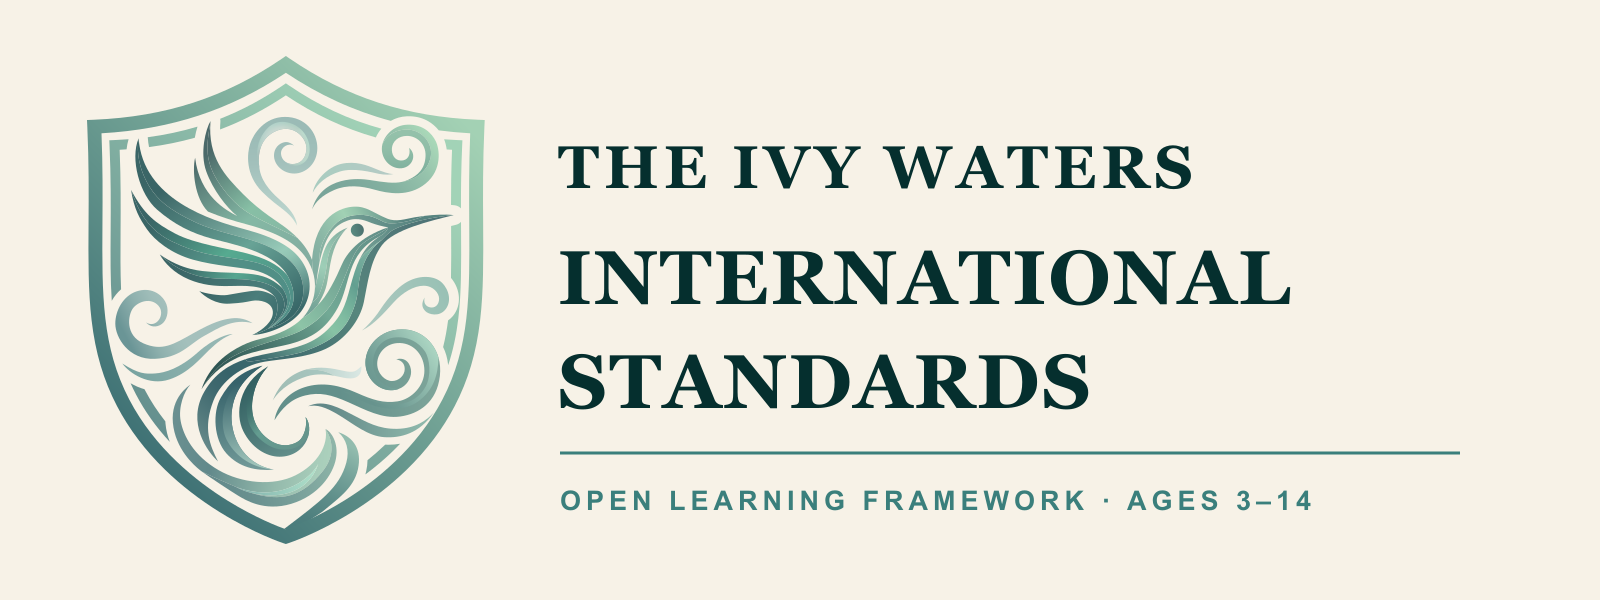
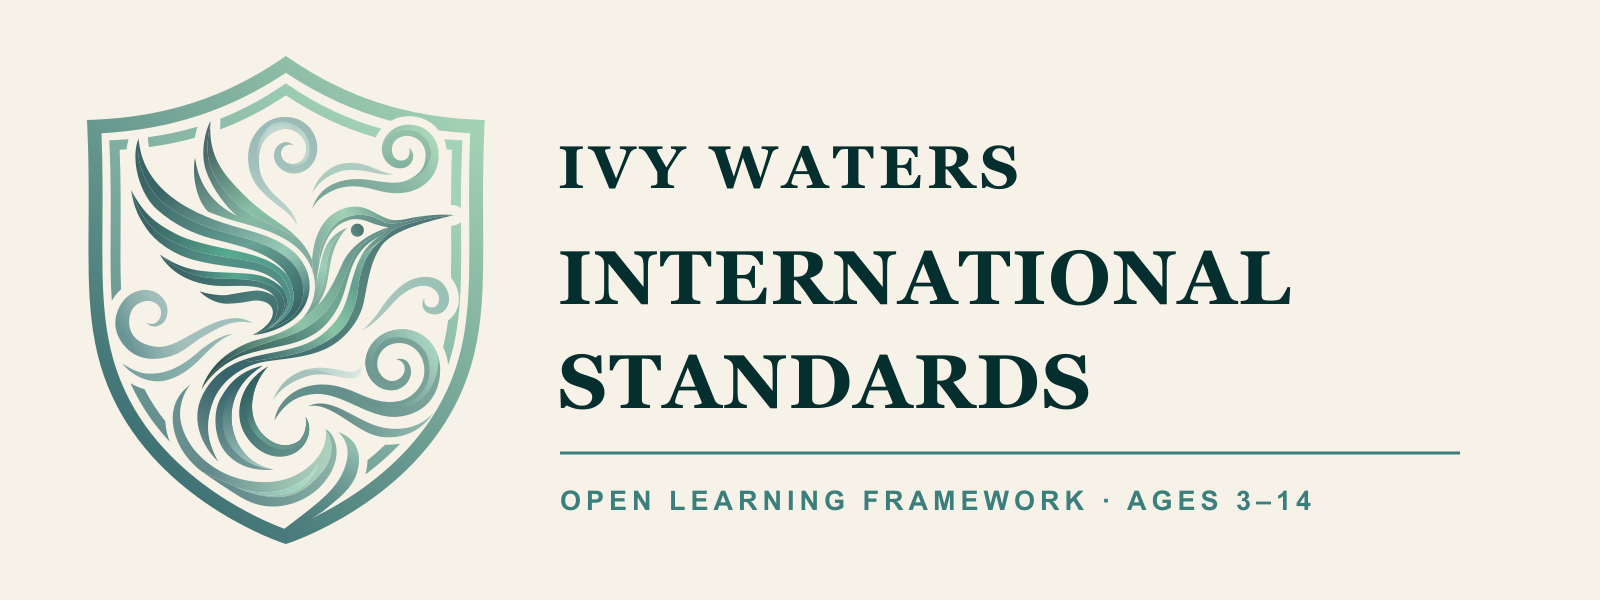
fix: align Standards official name

Changed region(s): [[0.3438, 0.24, 0.75, 0.33]]

diff --git a/README.md b/README.md
@@ -1,8 +1,8 @@
 <p align="center">
-  <img src="assets/ivy-waters-international-standards-lockup.png" width="640" alt="The Ivy Waters International Standards">
+  <img src="assets/ivy-waters-international-standards-lockup.png" width="640" alt="Ivy Waters International Standards">
 </p>
 
-# The Ivy Waters International Standards
+# Ivy Waters International Standards
 
 An open learning framework for ages 3–14, published by Ivy Waters
 International.
@@ -43,12 +43,12 @@ name, crest, and product marks remain protected. See
 
 Preferred whole-framework citation:
 
-> Ivy Waters International. (2026). *The Ivy Waters International Standards*
+> Ivy Waters International. (2026). *Ivy Waters International Standards*
 > (Version 2.2.0). https://ivywaters.com/standards. Licensed under CC BY 4.0.
 
 Preferred standard-level citation:
 
-> Ivy Waters International. (2026). “{Title}” ({ID}), in *The Ivy Waters
+> Ivy Waters International. (2026). “{Title}” ({ID}), in *Ivy Waters
 > International Standards* (Version 2.2.0).
 > https://ivywaters.com/standards/{ID}. Licensed under CC BY 4.0.
 
@@ -60,7 +60,7 @@ Machine-readable citation metadata is available in
 CC BY 4.0 permits adaptations. Make the distinction between the source and
 your changes clear. A useful notice is:
 
-> Adapted from *The Ivy Waters International Standards* v2.2.0, © 2026 Ivy
+> Adapted from *Ivy Waters International Standards* v2.2.0, © 2026 Ivy
 > Waters International, licensed under CC BY 4.0. Changes made: {briefly
 > describe changes}. This adaptation is independent and is not endorsed by
 > Ivy Waters International.
@@ -77,7 +77,7 @@ Standards identifiers. Place the release version and a link to the public
 reader next to it.
 
 <p align="center">
-  <img src="assets/ivy-waters-open-standards-reference-badge.png" width="640" alt="References The Ivy Waters International Standards; independent use; no endorsement implied">
+  <img src="assets/ivy-waters-open-standards-reference-badge.png" width="640" alt="References Ivy Waters International Standards; independent use; no endorsement implied">
 </p>
 
 This is not a certification, compliance, accreditation, or compatibility

diff --git a/NOTICE.md b/NOTICE.md
@@ -4,7 +4,7 @@
 
 Use this notice when reproducing or integrating the unmodified catalog:
 
-> *The Ivy Waters International Standards* v2.2.0, © 2026 Ivy Waters
+> *Ivy Waters International Standards* v2.2.0, © 2026 Ivy Waters
 > International, licensed under CC BY 4.0.
 > https://ivywaters.com/standards
 
@@ -12,7 +12,7 @@ Use this notice when reproducing or integrating the unmodified catalog:
 
 Include the permanent identifier and title:
 
-> Ivy Waters International. “{Title}” ({ID}), in *The Ivy Waters
+> Ivy Waters International. “{Title}” ({ID}), in *Ivy Waters
 > International Standards* v2.2.0 (2026), licensed under CC BY 4.0.
 > https://ivywaters.com/standards/{ID}
 
@@ -22,7 +22,7 @@ CC BY 4.0 requires an indication when licensed material has been modified.
 Use language that makes the source, your changes, and the lack of endorsement
 easy to understand:
 
-> Adapted from *The Ivy Waters International Standards* v2.2.0, © 2026 Ivy
+> Adapted from *Ivy Waters International Standards* v2.2.0, © 2026 Ivy
 > Waters International, licensed under CC BY 4.0. Changes made: {briefly
 > describe changes}. This adaptation is independent and is not endorsed by
 > Ivy Waters International.

diff --git a/BRAND-GUIDELINES.md b/BRAND-GUIDELINES.md
@@ -4,7 +4,7 @@ The Creative Commons Attribution 4.0 International license applies to the
 Standards content and documentation in this repository. It does not grant
 trademark rights.
 
-**Ivy Waters International**, **The Ivy Waters International Standards**,
+**Ivy Waters International**, **Ivy Waters International Standards**,
 **IvyTracks**, the Ivy Waters crest, and related trade dress identify Ivy
 Waters International and its official products and publications.
 

diff --git a/docs/PUBLIC-SOURCES.md b/docs/PUBLIC-SOURCES.md
@@ -28,4 +28,6 @@ family records. It is not the canonical public source and should not replace
 
 The public source excludes internal translation mappings and any external
 framework names, private records, learner data, application code, unpublished
-proposals, and brand artwork.
+proposals, and brand artwork other than the two expressly listed publication
+assets: the protected official publisher lockup and the crest-free reference
+badge.

diff --git a/GOVERNANCE.md b/GOVERNANCE.md
@@ -2,7 +2,7 @@
 
 ## Authority
 
-Ivy Waters International publishes official editions of The Ivy Waters
+Ivy Waters International publishes official editions of Ivy Waters
 International Standards. The public repository makes the catalog open under
 CC BY 4.0; openness does not remove the distinction between an official Ivy
 Waters edition and an independent adaptation.

diff --git a/LICENSE.md b/LICENSE.md
@@ -1,6 +1,6 @@
 # Creative Commons Attribution 4.0 International
 
-Except where otherwise noted, The Ivy Waters International Standards catalog
+Except where otherwise noted, the Ivy Waters International Standards catalog
 and the documentation in this repository are licensed under the **Creative
 Commons Attribution 4.0 International Public License** (`CC BY 4.0`).
 

diff --git a/CHANGELOG.md b/CHANGELOG.md
@@ -1,6 +1,6 @@
 # Changelog
 
-The Ivy Waters International Standards use the versioning rules in
+Ivy Waters International Standards use the versioning rules in
 [GOVERNANCE.md](GOVERNANCE.md). Newest entries appear first.
 
 ## [2.2.0] - 2026-09-03
